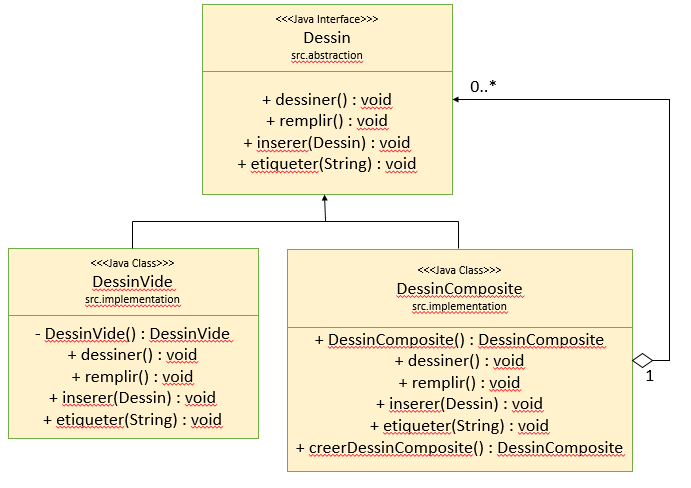
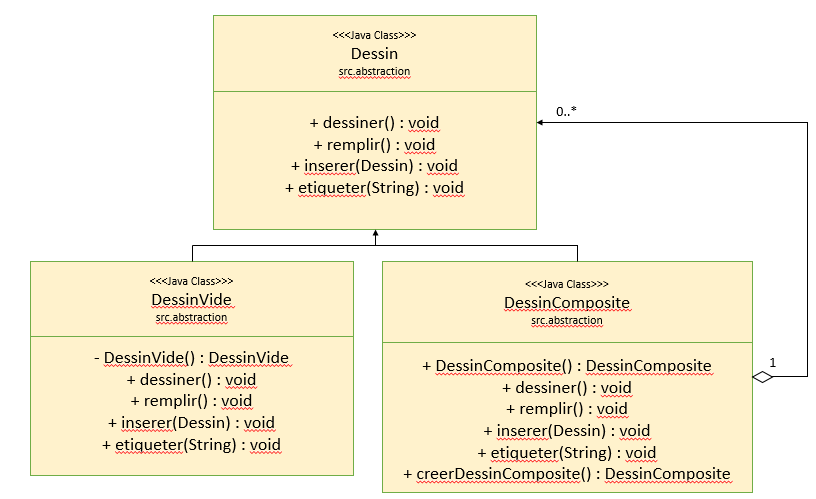
add DessinComposite pattern

Changed region(s): [[0.0, 0.0, 1.0, 1.0]]

diff --git a/Rapport.md b/Rapport.md
@@ -7,4 +7,5 @@
 ![PatronConceptionDessin](PatronCompositeDessin.PNG)
 
 
-2. 
+2. Concernant le patron de conception de la class DessinComposite, nous avons intégré des instances d'une classe nommée Graffiti, composée d'un Crayon et d'un Chemin, au nombre de 1 à n qui composent un DessinComposite. 
+![PatronConceptionDessinComposite](PatronDessinComposite.PNG)
